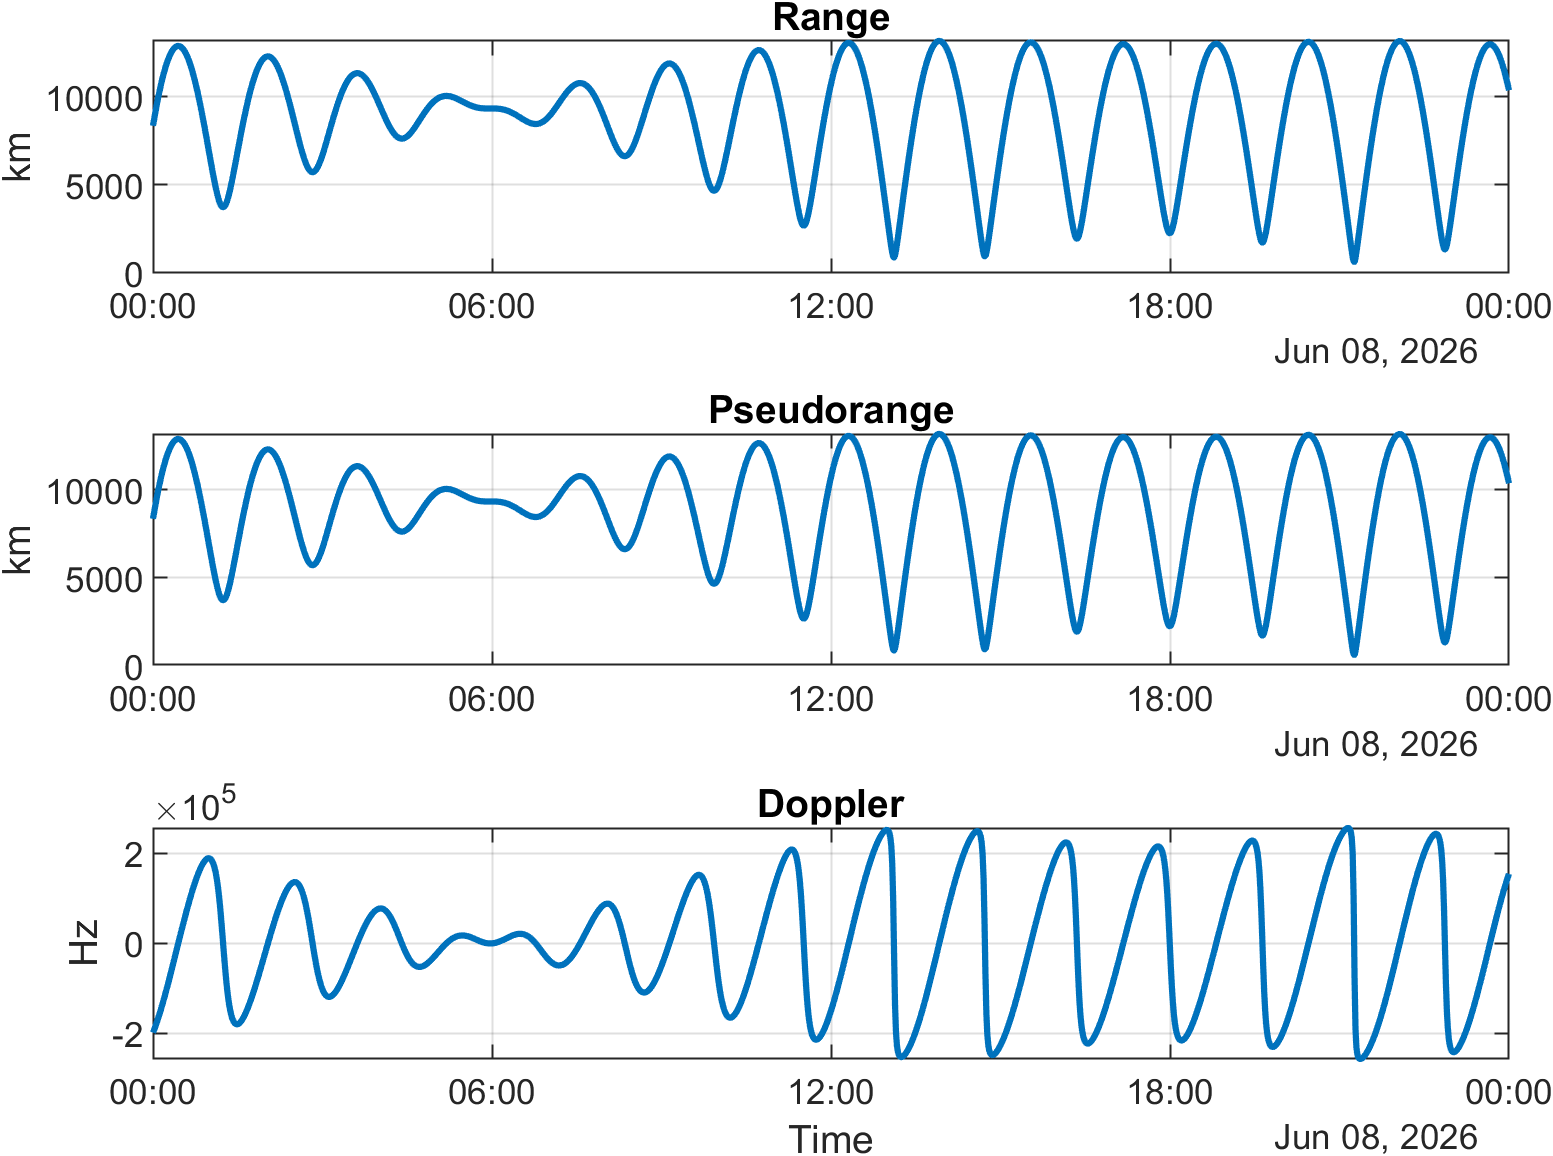
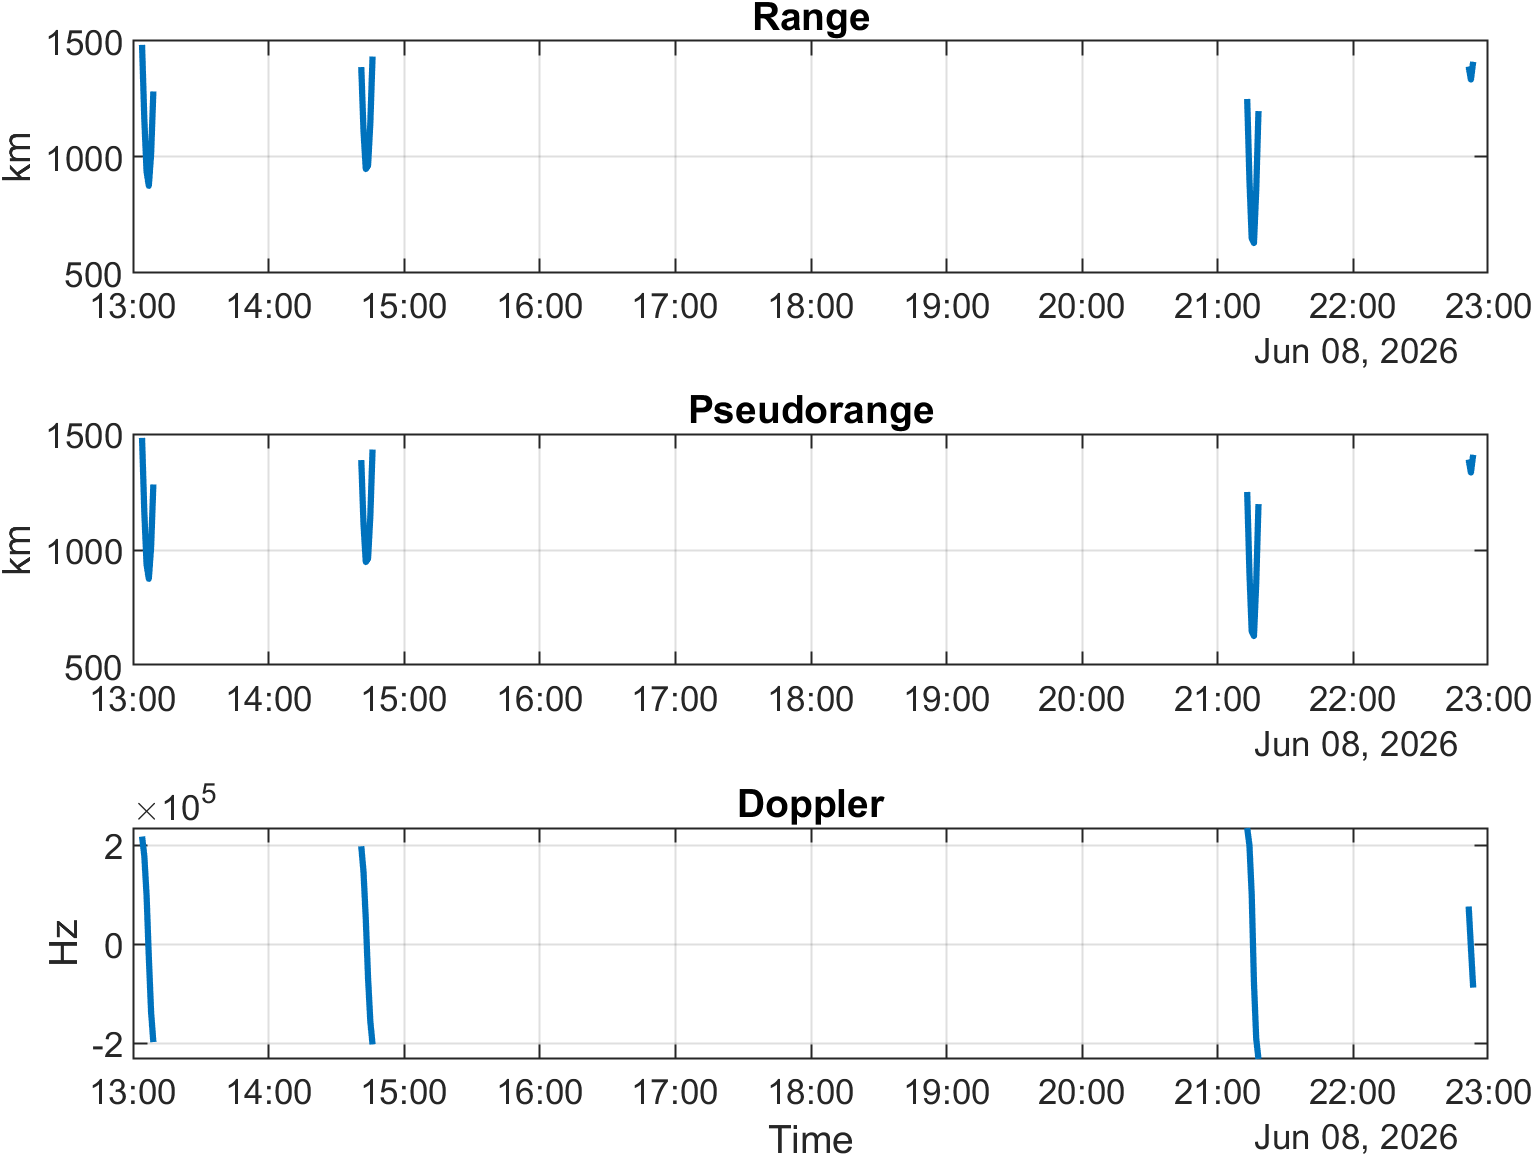
Fix Task C Plotting to account for elevation mask

diff --git a/StarlinkSim.m b/StarlinkSim.m
@@ -99,6 +99,25 @@ for k = 1:numSat
     end
 end
 
+% Apply visibility mask from Task B
+for k = 1:numSat
+    satName = string(sat(k).Name);
+
+    rows = strcmp(string(intervals.Source), satName);
+
+    visibleTimes = false(numTime,1);
+
+    for j = find(rows)'
+        visibleTimes = visibleTimes | ...
+            (time' >= intervals.StartTime(j) & time' <= intervals.EndTime(j));
+    end
+
+    range(~visibleTimes,k) = NaN;
+    pseudorange(~visibleTimes,k) = NaN;
+    doppler(~visibleTimes,k) = NaN;
+    rangeRate(~visibleTimes,k) = NaN;
+end
+
 k = 1;
 
 figure;